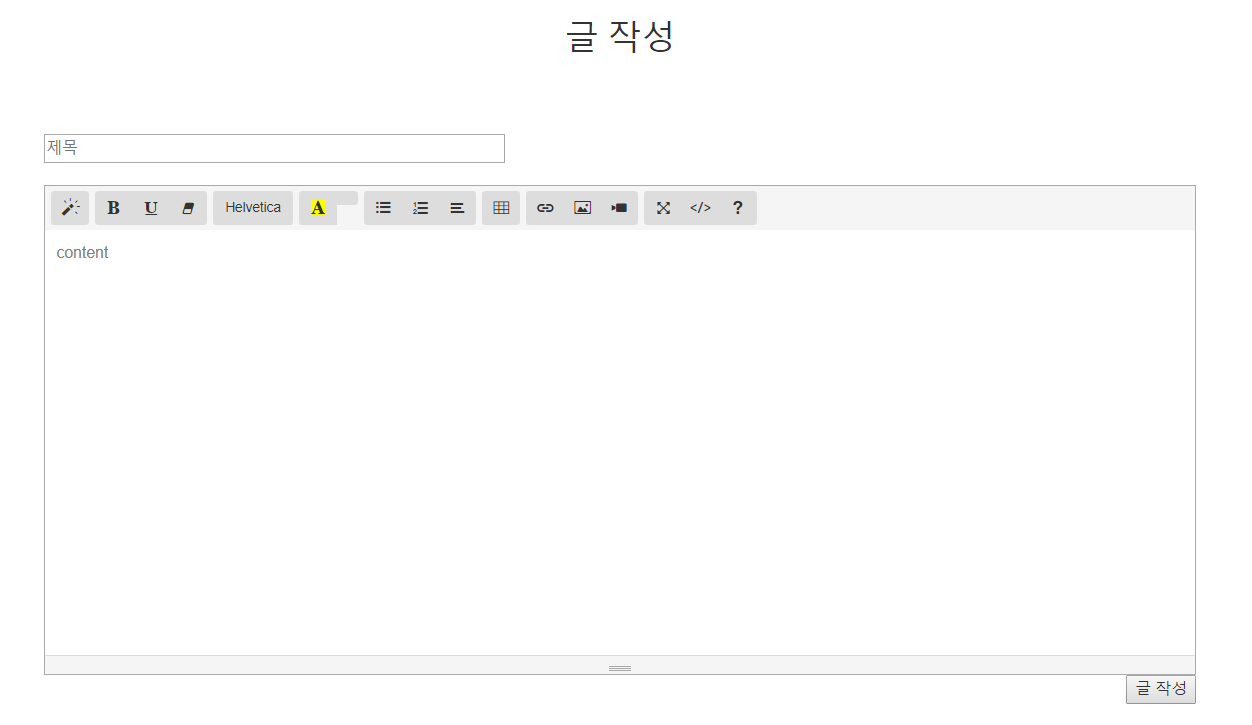
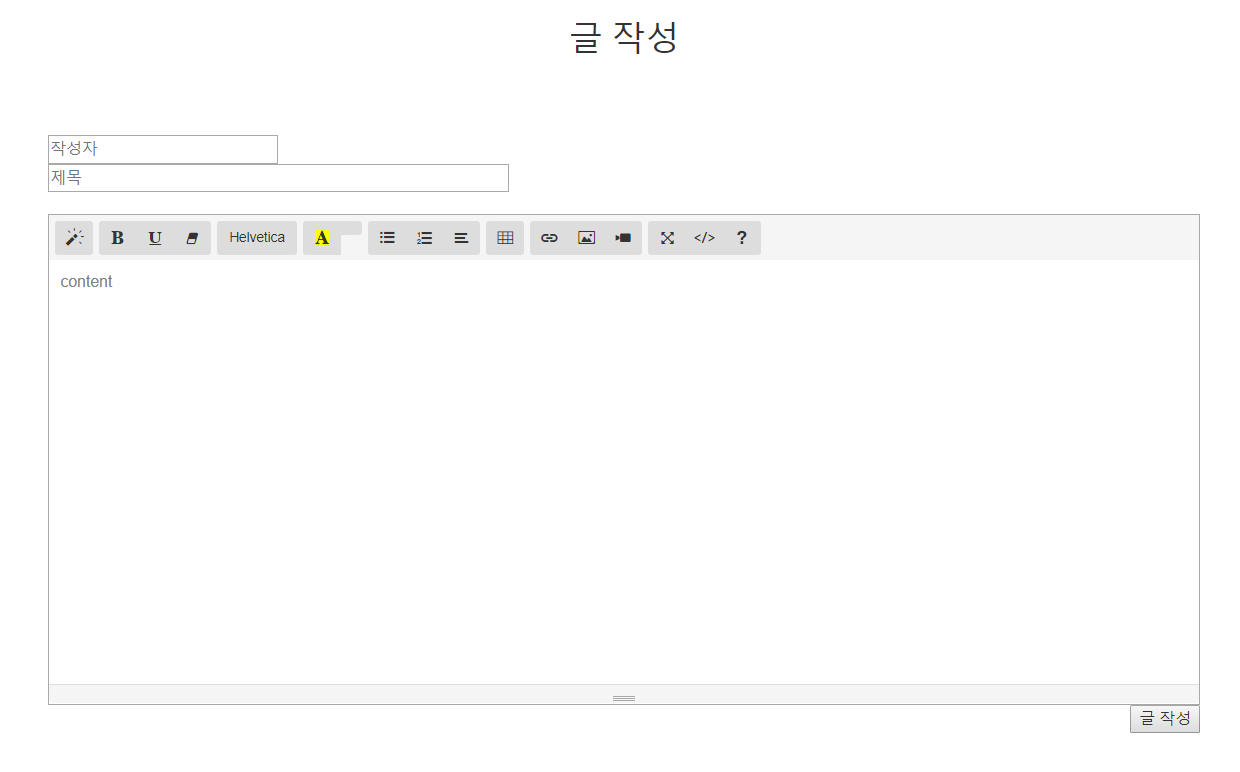
write End

diff --git a/Spring/_posts/2019-05-21-Board_Write.md b/Spring/_posts/2019-05-21-Board_Write.md
@@ -65,10 +65,11 @@ $(document).ready(function() {
 
 <div style="width: 60%; margin: auto;">
 	<form method="post" action="/write">
+		<input type="text" name="writer" style="width: 20%;" placeholder="작성자"/><br>
 		<input type="text" name="title" style="width: 40%;" placeholder="제목"/>
 		<br><br> 
 		<textarea id="summernote" name="content"></textarea>
-		<input type="submit" value="글 작성" style="float: right;"/>
+		<input id="subBtn" type="button" value="글 작성" style="float: right;" onclick="goWrite(this.form)"/>
 	</form>
 </div>
 
@@ -94,3 +95,126 @@ public String boardWrite() {
 <img src="/assets/img/spring/write.png">
 
 "**localhost:포트번호/write**"로 접속시 위와 같은 화면이 뜨면 성공이다.
+
+## 데이터베이스에 insert 하기
+
+화면단은 완성되었고 이제 글을 입력받아 서버로 넘긴 뒤 DB에 기록해야한다.<br>
+
+~~~html
+<script>
+function goWrite(frm) {
+	var title = frm.title.value;
+	var writer = frm.writer.value;
+	var content = frm.content.value;
+	
+	if (title.trim() == ''){
+		alert("제목을 입력해주세요");
+		return false;
+	}
+	if (writer.trim() == ''){
+		alert("작성자를 입력해주세요");
+		return false;
+	}
+	if (content.trim() == ''){
+		alert("내용을 입력해주세요");
+		return false;
+	}
+	frm.submit();
+}
+</script>	
+~~~
+
+글 작성내용에 빈칸이 없게끔 확인하는 코드이다.<br>
+**header** 태그 안이나 **body** 태그 맨 아래 위 코드를 작성해준다.
+
+~~~sql
+CREATE SEQUENCE  "BOARD_SEQ"  
+MINVALUE 1 MAXVALUE 9999999999999999999999999999 
+INCREMENT BY 1 START WITH 1 NOCACHE;
+~~~
+
+데이터베이스에서 인덱스를 쉽게 사용하기 위한 시퀀스를 생성해준다.<br>
+더미데이터가 있을시 삭제하거나 **START WITH** 뒤의 숫자를 바꿔 인덱스가 겹치지 않게한다.
+
+~~~xml
+<!-- 게시판 insert -->
+<insert id="insertBoard" parameterType="com.my.spring.domain.BoardVO">
+
+	<selectKey keyProperty="seq" order="BEFORE" resultType="int">
+		SELECT BOARD_SEQ.NEXTVAL FROM DUAL
+	</selectKey>
+	INSERT INTO BOARD (seq, writer, title, content)
+				VALUES (#{seq}, #{writer}, #{title}, #{content})
+</insert>
+~~~
+
+**BoardMapper.xml** 파일에 위 sql문을 작성해준다.<br>
+여기서 **selectKey**란 해당 insert문 실행 전이나 후에<br>
+selectKey 안의 내용을 실행시킨 후 해당 내용을 반환해준다.<br>
+즉 다음 시퀀스 값을 **select**한 후 해당 값을 **BoardVO** 안에 넣어주는 기능을 한다.
+
+~~~java
+// 게시물 작성
+public int insertBoard(BoardVO vo);
+~~~
+
+**BoardMapper**와 **BoardService** 인터페이스에 위 메소드를 추가한다.
+
+~~~java
+@Override
+public int insertBoard(BoardVO vo) {
+	return mapper.insertBoard(vo);
+}
+~~~
+
+**BoardServiceImpl** 클래스에 메소드를 Override 해준다.
+
+~~~java
+@PostMapping("write")
+public String write(BoardVO vo) {
+	int seq = boardService.insertBoard(vo);
+	return "redirect: /detail?seq="+ vo.getSeq();
+}
+~~~
+
+마지막으로 **Controller**에 위 내용을 입력해준다.<br>
+이미 **GetMapping**으로 'write' 경로를 사용했지만 GET방식만 받으므로<br>
+같은 경로로 GET, POST 각각 따로 처리할 수 있다.<br>
+글을 쓴 뒤 **redirect**를 이용해 해당 글 번호로 이동하게끔 구현한다.<br>
+
+~~~html
+<input type="button" value="글쓰기" style="float: right;" onclick="location.href='/write'">
+~~~
+
+**boardList.jsp**에 글쓰기 버튼을 만들어 준 뒤 서버를 실행시키고 글작성을 해본다.
+
+<img src="/assets/img/spring/krBrk.png">
+
+한글로 작성시 위와같이 한글이 깨지는 경우가 있다. <br>
+POST방식으로 데이터 전송시 문제가 생기는데 <br>
+이 경우는 Spring에서 **web.xml**에 필터를 등록해주면 해결된다.
+
+~~~xml
+<filter>
+<filter-name>encodingFilter</filter-name>
+<filter-class>org.springframework.web.filter.CharacterEncodingFilter</filter-class>
+<init-param>
+	<param-name>encoding</param-name>
+	<param-value>utf-8</param-value>
+</init-param>   
+</filter>
+
+<filter-mapping>
+	<filter-name>encodingFilter</filter-name>
+	<url-pattern>/*</url-pattern>
+</filter-mapping>
+~~~
+
+**src/main/webapp/WEB-INF** 폴더 **web.xml**에 위 내용을 작성해주면 된다.<br>
+다시 실행 뒤 테스트를 해보면
+
+<img src="/assets/img/spring/writeTest.png">
+<img src="/assets/img/spring/writeResult.png">
+<img src="/assets/img/spring/writeList.png">
+
+위와 같이 정상적으로 작동되는걸 알 수 있다.

diff --git a/Spring/_posts/2019-05-20-Board_View.md b/Spring/_posts/2019-05-20-Board_View.md
@@ -122,7 +122,7 @@ public String viewDetail(Model model,
 			</td>
 		</tr>
 		<tr>
-			<td><textarea rows="10" readonly>${board.content }</textarea></td>
+			<td><div style="height: 300px; margin: 10px; display: inline-block">${board.content }</div></td>
 		</tr>
 	</table>
 	<input type="button" value="글 목록" style="float: right;" onclick="goList()"> 

diff --git a/Spring/_posts/2019-05-13-MyBatis_Oracle2.md b/Spring/_posts/2019-05-13-MyBatis_Oracle2.md
@@ -37,7 +37,7 @@ comments: true
 ~~~xml
 <!-- 전체 내용 조회 -->
 <select id="viewAll" resultType="com.my.spring.domain.BoardVO">
-  SELECT * FROM board
+  SELECT * FROM board ORDER BY SEQ DESC
 </select>
 ~~~
 
